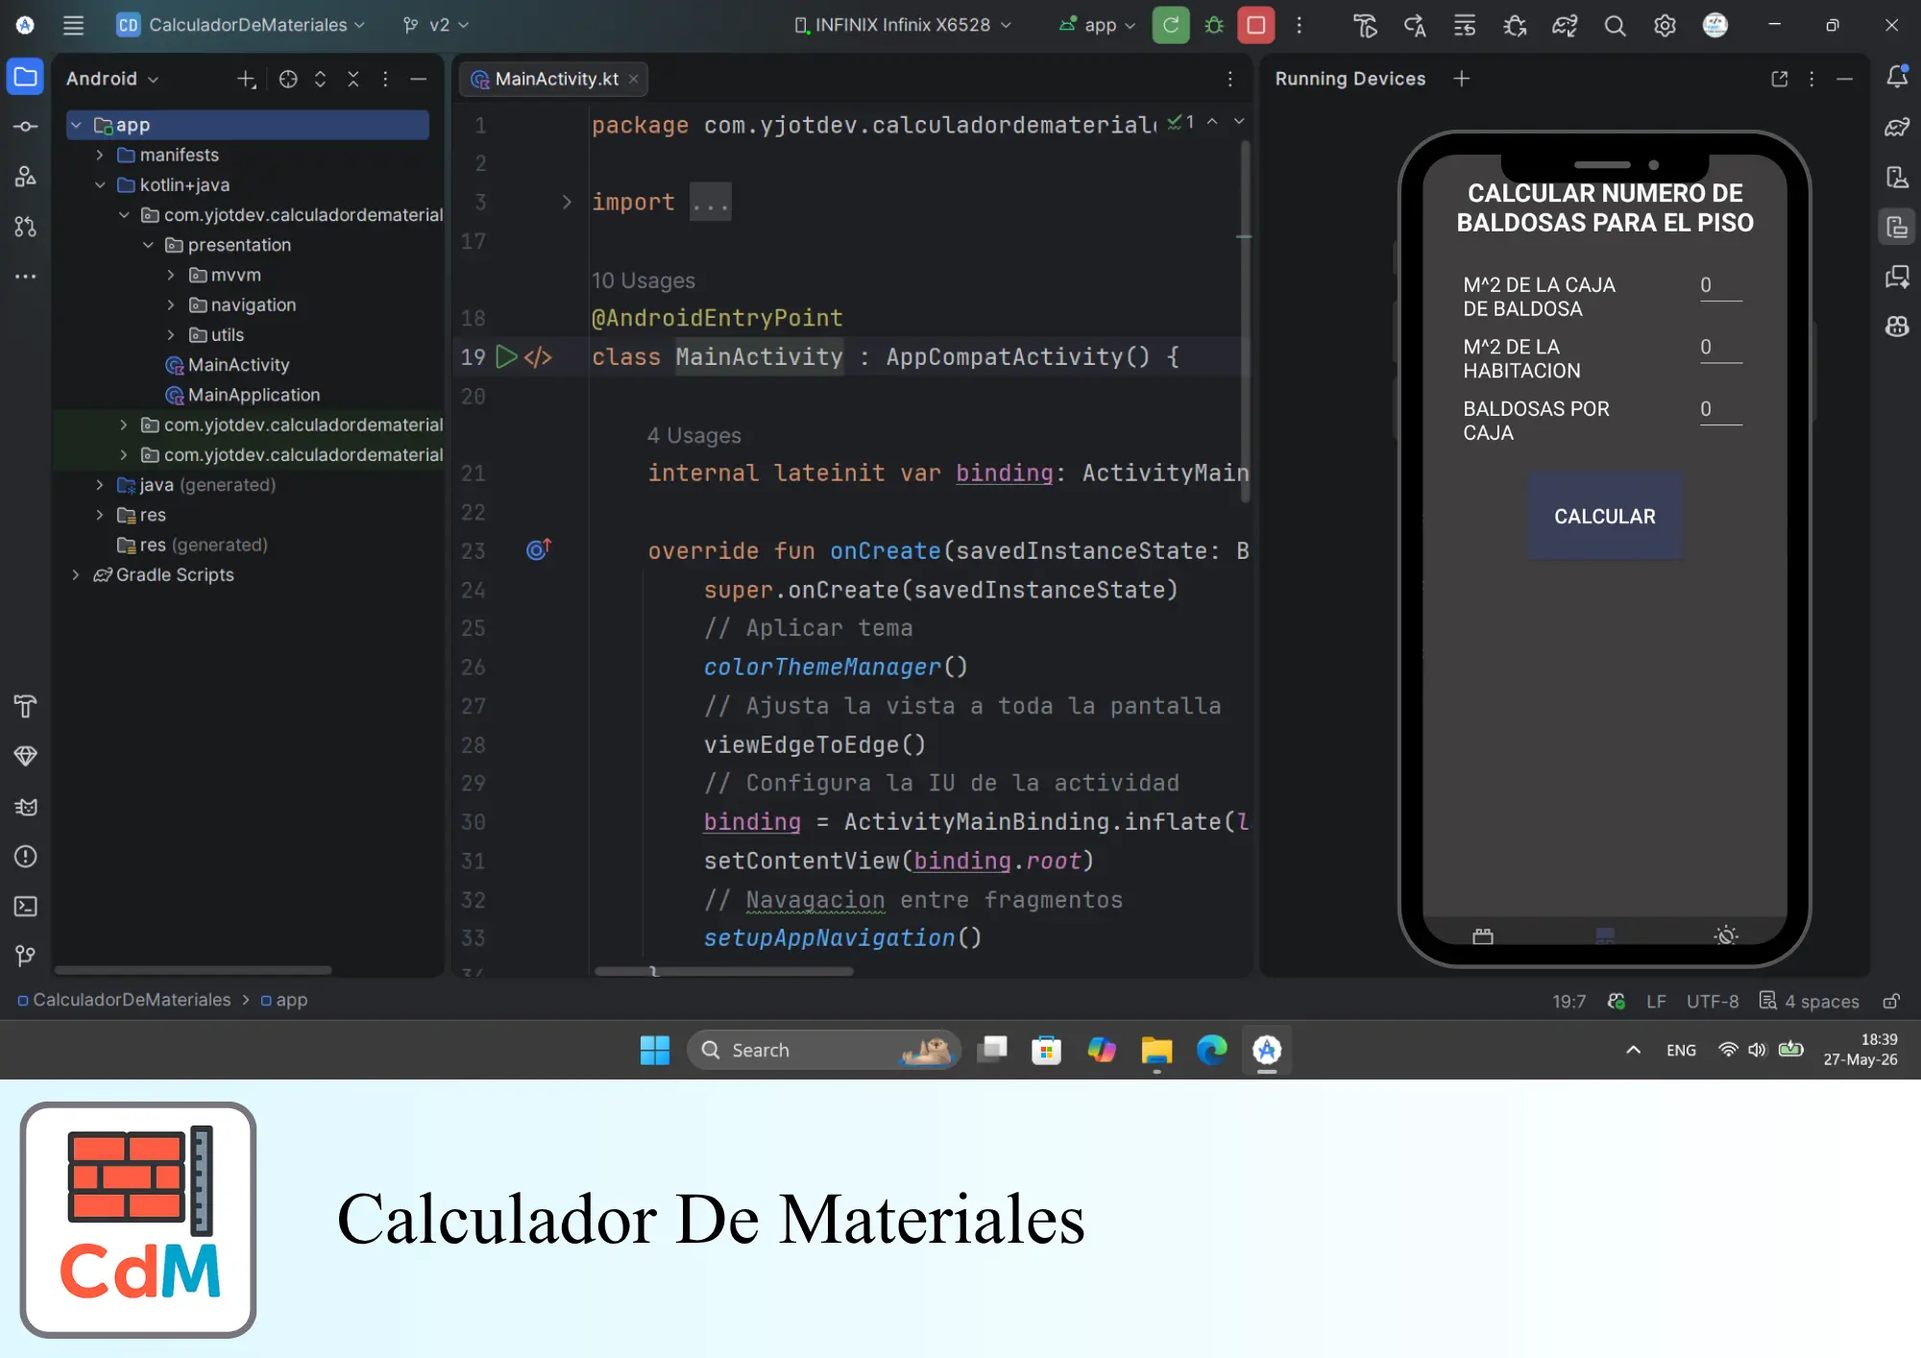
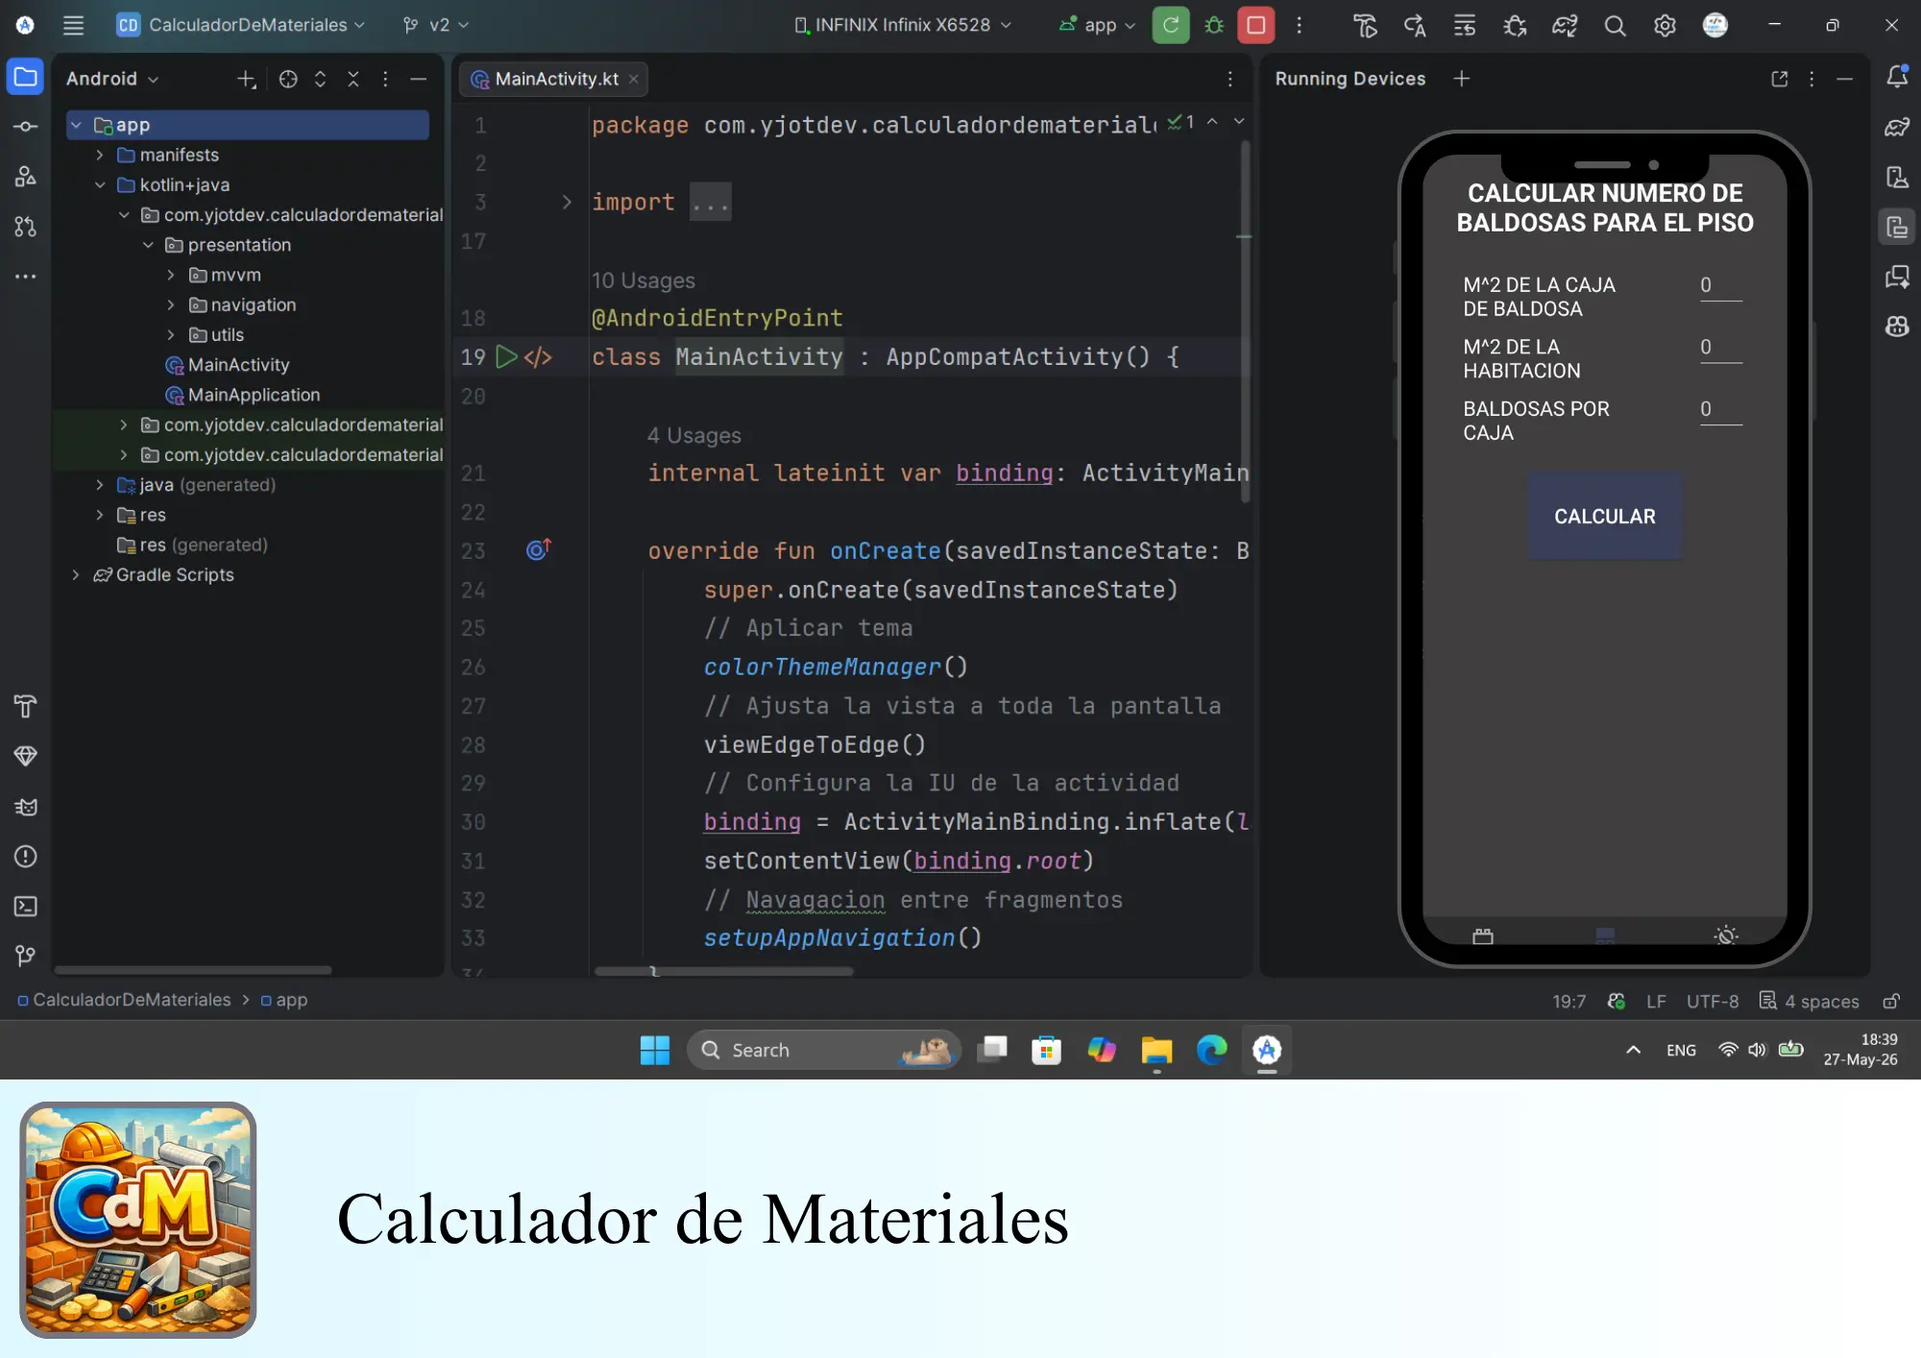
Design update 3.3.9

Changed region(s): [[0.0, 0.8091, 0.155, 0.9958], [0.341, 0.8713, 0.558, 0.9335]]

diff --git a/src/projects.html b/src/projects.html
@@ -64,7 +64,7 @@
             <a href="app-oplus.html">
               <img class="proyectos-img" src="../assets/projects/android5.webp" alt="Gamificación sobre ortografía">
             </a>
-            <h3>Ortografía Plus</h3>
+            <h3>O-Plus</h3>
             <ul>
               <li><strong>Patrón de diseño arquitectónico:</strong> MVVM + Clean Architecture</li>
               <li><strong>Inyección de dependencias:</strong> Hilt</li>
@@ -78,10 +78,10 @@
             </ul>
           </article>
           <article class="proyecto">
-            <a href="app-pm.html">
+            <a href="app-mp.html">
               <img class="proyectos-img" src="../assets/projects/android6.webp" alt="Reproductor de música">
             </a>
-            <h3>Player Music</h3>
+            <h3>MP</h3>
             <ul>
               <li><strong>Patrón de diseño arquitectónico:</strong> MVVM + Clean Architecture</li>
               <li><strong>Base de datos:</strong> Room (Local)</li>
@@ -98,7 +98,7 @@
             <a href="app-emp.html">
               <img class="proyectos-img" src="../assets/projects/android7.webp" alt="Gamificación sobre emprendimiento">
             </a>
-            <h3>Emprendimiento Primaria</h3>
+            <h3>EMP</h3>
             <ul>
               <li><strong>Patrón de diseño arquitectónico:</strong> MVVM + Clean Architecture</li>
               <li><strong>Base de datos:</strong> MySQL</li>
@@ -112,10 +112,10 @@
             </ul>
           </article>
           <article class="proyecto">
-            <a href="app-ar.html">
+            <a href="app-ari.html">
               <img class="proyectos-img" src="../assets/projects/android8.webp" alt="Reportero de incidentes">
             </a>
-            <h3>Accident Reporter</h3>
+            <h3>ARI</h3>
             <ul>
               <li><strong>Patrón de diseño arquitectónico:</strong> MVVM + Clean Architecture</li>
               <li><strong>Base de datos:</strong> MySQL</li>
@@ -140,7 +140,7 @@
             <a href="app-zteg.html">
               <img class="proyectos-img" src="../assets/projects/android1.webp" alt="Zonas turísticas El Guabo">
             </a>
-            <h3>Zonas Turísticas El Guabo</h3>
+            <h3>ZTEG</h3>
             <ul>
               <li><strong>Patrón de diseño arquitectónico:</strong> MVVM</li>
               <li><strong>Inyección de dependencias:</strong> Hilt</li>
@@ -157,7 +157,7 @@
             <a href="app-cp.html">
               <img class="proyectos-img" src="../assets/projects/android2.webp" alt="Clasificador de raza de peces">
             </a>
-            <h3>Clasificador De Peces</h3>
+            <h3>CP</h3>
             <ul>
               <li><strong>Patrón de diseño arquitectónico:</strong> MVVM + Clean Architecture</li>
               <li><strong>Base de datos:</strong> MySQL</li>
@@ -171,7 +171,7 @@
             <a href="app-cdm.html">
               <img class="proyectos-img" src="../assets/projects/android3.webp" alt="Calculadora de materiales">
             </a>
-            <h3>Calculador De Materiales</h3>
+            <h3>CdM</h3>
             <ul>
               <li><strong>Patrón de diseño arquitectónico:</strong> MVVM</li>
               <li><strong>Inyección de dependencias:</strong> Hilt</li>
@@ -186,10 +186,10 @@
             </ul>
           </article>
           <article class="proyecto">
-            <a href="app-login.html">
+            <a href="app-gupn.html">
               <img class="proyectos-img" src="../assets/projects/android4.webp" alt="Login de usuario">
             </a>
-            <h3>Login</h3>
+            <h3>GUPN</h3>
             <ul>
               <li><strong>Patrón de diseño arquitectónico:</strong> MVVM + Clean Architecture</li>
               <li><strong>Base de datos:</strong> MySQL</li>

diff --git a/src/app-gupn.html b/src/app-gupn.html
@@ -42,21 +42,21 @@
         </nav>
 
         <div class="portada">
-            <img id="cover-image" src="../assets/apps/login.webp" alt="Imagen de portada">
+            <img id="cover-image" src="../assets/apps/gupn.webp" alt="Imagen de portada">
         </div>
     </header>
 
     <div id="traductor" style="display:none;"></div>
 
     <main>
-        <h2 class="titulo">LOGIN</h2>
+        <h2 class="titulo">Gestión de Usuario, Pagos y Notificaciones (GUPN)</h2>
 
         <section>
             <h3 class="subtitulo">Descripción general</h3>
             <div class="contenedor">
                 <article class="perfil">
                     <p>
-                        Login es una aplicación móvil que proporciona un ecosistema seguro, moderno y eficiente para la gestión de cuentas,
+                        GUPN es una aplicación móvil que proporciona un ecosistema seguro, moderno y eficiente para la gestión de cuentas,
                         pagos y comunicaciones, adaptado a las necesidades actuales de los usuarios y alineado
                         con las mejores prácticas de desarrollo Android.
                     </p>
@@ -134,7 +134,7 @@
                             <strong>Pagos:</strong>
                             Desde la sección de pagos, el usuario puede realizar transacciones de manera segura
                             utilizando
-                            PayPal, facilitando la gestión financiera dentro de la app.
+                            Google Play Billing, facilitando la gestión financiera dentro de la app.
                         </li>
                         <li>
                             <strong>Historial de Pagos:</strong>
@@ -162,7 +162,7 @@
                         <span>Ver código en Github</span>
                     </div>
                     <div class="item-de-tabla">
-                        <a class="icono clickable" href="https://youtu.be/lcxI6hzurm4" target="_blank">
+                        <a class="icono clickable" href="https://youtu.be/psKPT1lUEiA" target="_blank">
                             <img class="acceso-apps" src="../assets/icons/video.svg" alt="Video demo">
                         </a>
                         <span>Ver video demo en Youtube</span>

diff --git a/src/app-mp.html b/src/app-mp.html
@@ -42,21 +42,21 @@
         </nav>
 
         <div class="portada">
-            <img id="cover-image" src="../assets/apps/pm.webp" alt="Imagen de portada">
+            <img id="cover-image" src="../assets/apps/mp.webp" alt="Imagen de portada">
         </div>
     </header>
 
     <div id="traductor" style="display:none;"></div>
 
     <main>
-        <h2 class="titulo">PLAYER MUSIC</h2>
+        <h2 class="titulo">Music Player (MP)</h2>
 
         <section>
             <h3 class="subtitulo">Descripción general</h3>
             <div class="contenedor">
                 <article class="perfil">
                     <p>
-                        Player Music es una aplicación móvil nativa de Android diseñada para ofrecer una experiencia de
+                        MP es una aplicación móvil nativa de Android diseñada para ofrecer una experiencia de
                         reproducción de música local fluida y organizada. El objetivo principal es permitir a los
                         usuarios gestionar y disfrutar de su biblioteca musical personal almacenada en el dispositivo,
                         con funcionalidades robustas para la creación y administración de playlists.
@@ -138,7 +138,7 @@
                         <span>Ver código en Github</span>
                     </div>
                     <div class="item-de-tabla">
-                        <a class="icono clickable" href="https://youtu.be/Ivs9VpvraVI" target="_blank">
+                        <a class="icono clickable" href="https://youtu.be/MlHA6pHS22Y" target="_blank">
                             <img class="acceso-apps" src="../assets/icons/video.svg" alt="Video demo">
                         </a>
                         <span>Ver video demo en Youtube</span>

diff --git a/src/app-ari.html b/src/app-ari.html
@@ -42,21 +42,21 @@
         </nav>
 
         <div class="portada">
-            <img id="cover-image" src="../assets/apps/ar.webp" alt="Imagen de portada">
+            <img id="cover-image" src="../assets/apps/ari.webp" alt="Imagen de portada">
         </div>
     </header>
 
     <div id="traductor" style="display:none;"></div>
 
     <main>
-        <h2 class="titulo">ACCIDENT REPORTER</h2>
+        <h2 class="titulo">App para Reportar Incidentes (ARI)</h2>
 
         <section>
             <h3 class="subtitulo">Descripción general</h3>
             <div class="contenedor">
                 <article class="perfil">
                     <p>
-                        Accident Reporter es una aplicación móvil intuitiva diseñada para que los ciudadanos puedan
+                        ARI es una aplicación móvil intuitiva diseñada para que los ciudadanos puedan
                         reportar incidentes de manera rápida y geolocalizada. El objetivo principal es crear un mapa
                         comunitario de sucesos, permitiendo a los usuarios visualizar y gestionar reportes de forma
                         sencilla.
@@ -139,7 +139,7 @@
                         <span>Ver código en Github</span>
                     </div>
                     <div class="item-de-tabla">
-                        <a class="icono clickable" href="https://youtu.be/zd-f3FNwjHA" target="_blank">
+                        <a class="icono clickable" href="https://youtu.be/_aSV32bVSl4" target="_blank">
                             <img class="acceso-apps" src="../assets/icons/video.svg" alt="Video demo">
                         </a>
                         <span>Ver video demo en Youtube</span>

diff --git a/src/app-cdm.html b/src/app-cdm.html
@@ -49,14 +49,14 @@
     <div id="traductor" style="display:none;"></div>
 
     <main>
-        <h2 class="titulo">CALCULADOR DE MATERIALES</h2>
+        <h2 class="titulo">Calculador de Materiales (CdM)</h2>
 
         <section>
             <h3 class="subtitulo">Descripción general</h3>
             <div class="contenedor">
                 <article class="perfil">
                     <p>
-                        Calculador De Materiales (CdM) es una aplicación móvil diseñada para simplificar y agilizar la estimación de insumos en
+                        CdM es una aplicación móvil diseñada para simplificar y agilizar la estimación de insumos en
                         proyectos de construcción. Su objetivo principal es ofrecer una herramienta directa y eficiente
                         que permita a los usuarios calcular la cantidad precisa de materiales necesarios para trabajos
                         específicos, como la construcción de muros o la instalación de pisos.
@@ -126,7 +126,7 @@
                         <span>Ver código en Github</span>
                     </div>
                     <div class="item-de-tabla">
-                        <a class="icono clickable" href="https://youtu.be/ZXCB118Kv2M" target="_blank">
+                        <a class="icono clickable" href="https://youtu.be/MDJEi7xUwb8" target="_blank">
                             <img class="acceso-apps" src="../assets/icons/video.svg" alt="Video demo">
                         </a>
                         <span>Ver video demo en Youtube</span>

diff --git a/src/app-emp.html b/src/app-emp.html
@@ -49,14 +49,14 @@
     <div id="traductor" style="display:none;"></div>
 
     <main>
-        <h2 class="titulo">EMPRENDIMIENTO PRIMARIA</h2>
+        <h2 class="titulo">Emprendimiento Primaria (EMP)</h2>
 
         <section>
             <h3 class="subtitulo">Descripción general</h3>
             <div class="contenedor">
                 <article class="perfil">
                     <p>
-                        Emprendimiento Primaria es una aplicación móvil educativa y gamificada, diseñada para enseñar conceptos
+                        EMP es una aplicación móvil educativa y gamificada, diseñada para enseñar conceptos
                         fundamentales de emprendimiento a través de una experiencia interactiva y progresiva. El
                         objetivo principal es motivar al usuario a aprender mediante lecciones estructuradas y
                         ejercicios prácticos, mientras sigue su progreso y gestiona su perfil de aprendizaje.
@@ -175,7 +175,7 @@
                         <span>Ver código en Github</span>
                     </div>
                     <div class="item-de-tabla">
-                        <a class="icono clickable" href="https://youtu.be/8ceBytM3tVI" target="_blank">
+                        <a class="icono clickable" href="https://youtu.be/8DHY6T0Y6m4" target="_blank">
                             <img class="acceso-apps" src="../assets/icons/video.svg" alt="Video demo">
                         </a>
                         <span>Ver video demo en Youtube</span>

diff --git a/src/app-oplus.html b/src/app-oplus.html
@@ -49,14 +49,14 @@
     <div id="traductor" style="display:none;"></div>
 
     <main>
-        <h2 class="titulo">ORTOGRAFÍA PLUS</h2>
+        <h2 class="titulo">Ortografía Plus (O-Plus)</h2>
 
         <section>
             <h3 class="subtitulo">Descripción general</h3>
             <div class="contenedor">
                 <article class="perfil">
                     <p>
-                        Ortografía Plus (O-Plus) es una aplicación móvil educativa diseñada para fortalecer las
+                        O-Plus es una aplicación móvil educativa diseñada para fortalecer las
                         habilidades de ortografía en español a través de la gamificación. La app se enfoca en ofrecer
                         una experiencia de aprendizaje interactiva y estructurada, con ejercicios basados en el
                         contenido de un libro de texto, presentados en un formato de juego para motivar al estudiante.
@@ -127,7 +127,7 @@
                         <span>Ver código en Github</span>
                     </div>
                     <div class="item-de-tabla">
-                        <a class="icono clickable" href="https://youtu.be/sf49ZZlkQ3Q" target="_blank">
+                        <a class="icono clickable" href="https://youtu.be/EKRhAspOMws" target="_blank">
                             <img class="acceso-apps" src="../assets/icons/video.svg" alt="Video demo">
                         </a>
                         <span>Ver video demo en Youtube</span>

diff --git a/src/app-cp.html b/src/app-cp.html
@@ -49,14 +49,14 @@
     <div id="traductor" style="display:none;"></div>
 
     <main>
-        <h2 class="titulo">CLASIFICADOR DE PECES</h2>
+        <h2 class="titulo">Clasificador de Peces (CP)</h2>
 
         <section>
             <h3 class="subtitulo">Descripción general</h3>
             <div class="contenedor">
                 <article class="perfil">
                     <p>
-                        Clasificador de Peces (CP) es una aplicación diseñada para los amantes de los acuarios
+                        CP es una aplicación diseñada para los amantes de los acuarios
                         domésticos. Su objetivo es ofrecer información confiable y organizada sobre las especies marinas
                         más comunes que se pueden mantener en casa, incluyendo peces, caracoles, tortugas y gambas.
                     </p>
@@ -107,7 +107,7 @@
                         <span>Ver código en Github</span>
                     </div>
                     <div class="item-de-tabla">
-                        <a class="icono clickable" href="https://youtu.be/Sn-XClweOvA" target="_blank">
+                        <a class="icono clickable" href="https://youtu.be/udcSpuscN1A" target="_blank">
                             <img class="acceso-apps" src="../assets/icons/video.svg" alt="Video demo">
                         </a>
                         <span>Ver video demo en Youtube</span>

diff --git a/src/app-zteg.html b/src/app-zteg.html
@@ -49,14 +49,14 @@
   <div id="traductor" style="display:none;"></div>
 
   <main>
-    <h2 class="titulo">ZONAS TURISTICAS EL GUABO</h2>
+    <h2 class="titulo">Zonas Turísticas El Guabo (ZTEG)</h2>
 
     <section>
       <h3 class="subtitulo">Descripción general</h3>
       <div class="contenedor">
         <article class="perfil">
           <p>
-            Zonas Turísticas El Guabo (ZTEG) es una aplicación móvil diseñada para explorar los principales centros turísticos de la
+            ZTEG es una aplicación móvil diseñada para explorar los principales centros turísticos de la
             ciudad de El Guabo, Ecuador. El objetivo principal es ofrecer a los usuarios una herramienta
             intuitiva y directa para descubrir y obtener información sobre los puntos de interés locales,
             utilizando la API de Google Maps como base para una experiencia de navegación interactiva.
@@ -114,7 +114,7 @@
             <span>Ver código en Github</span>
           </div>
           <div class="item-de-tabla">
-            <a class="icono clickable" href="https://youtu.be/PMSeZMcdUGI" target="_blank">
+            <a class="icono clickable" href="https://youtu.be/z-t7T8hYjDk" target="_blank">
               <img class="acceso-apps" src="../assets/icons/video.svg" alt="Video demo">
             </a>
             <span>Ver video demo en Youtube</span>

diff --git a/index.html b/index.html
@@ -97,7 +97,7 @@
             <a href="src/app-emp.html">
               <img class="proyectos-img" src="assets/projects/android7.webp" alt="Gamificación sobre emprendimiento">
             </a>
-            <h3>Emprendimiento Primaria</h3>
+            <h3>EMP</h3>
             <ul>
               <li><strong>Patrón de diseño arquitectónico:</strong> MVVM + Clean Architecture</li>
               <li><strong>Base de datos:</strong> MySQL</li>
@@ -111,10 +111,10 @@
             </ul>
           </article>
           <article class="proyecto">
-            <a href="src/app-ar.html">
+            <a href="src/app-ari.html">
               <img class="proyectos-img" src="assets/projects/android8.webp" alt="Reportero de incidentes">
             </a>
-            <h3>Accident Reporter</h3>
+            <h3>ARI</h3>
             <ul>
               <li><strong>Patrón de diseño arquitectónico:</strong> MVVM + Clean Architecture</li>
               <li><strong>Base de datos:</strong> MySQL</li>
